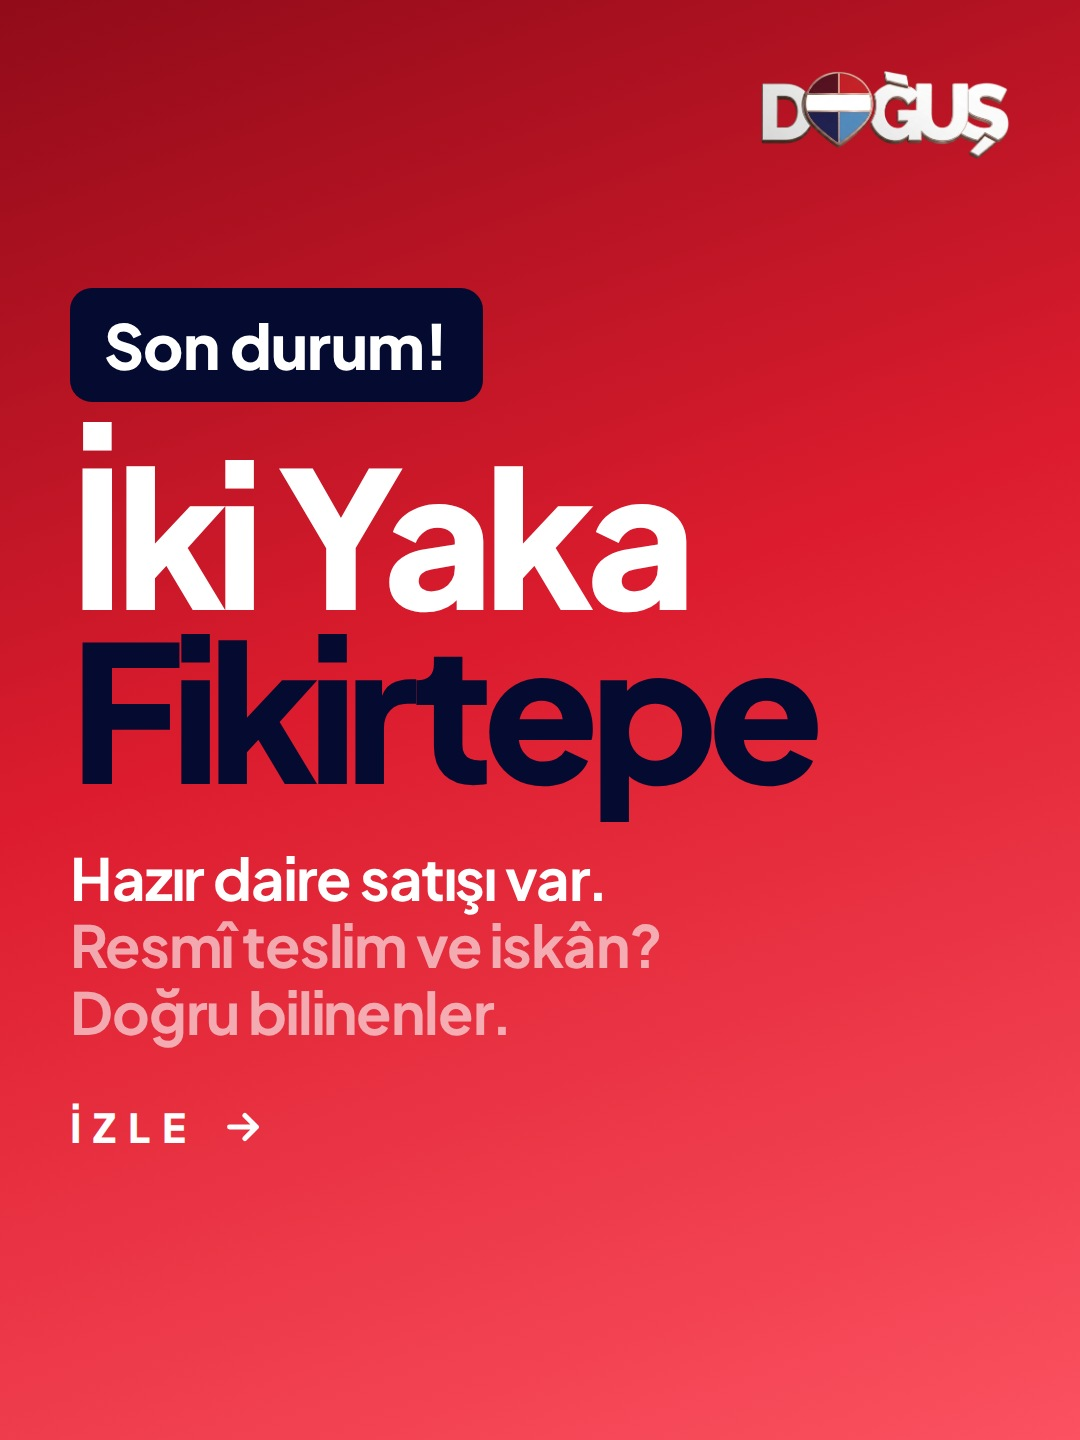
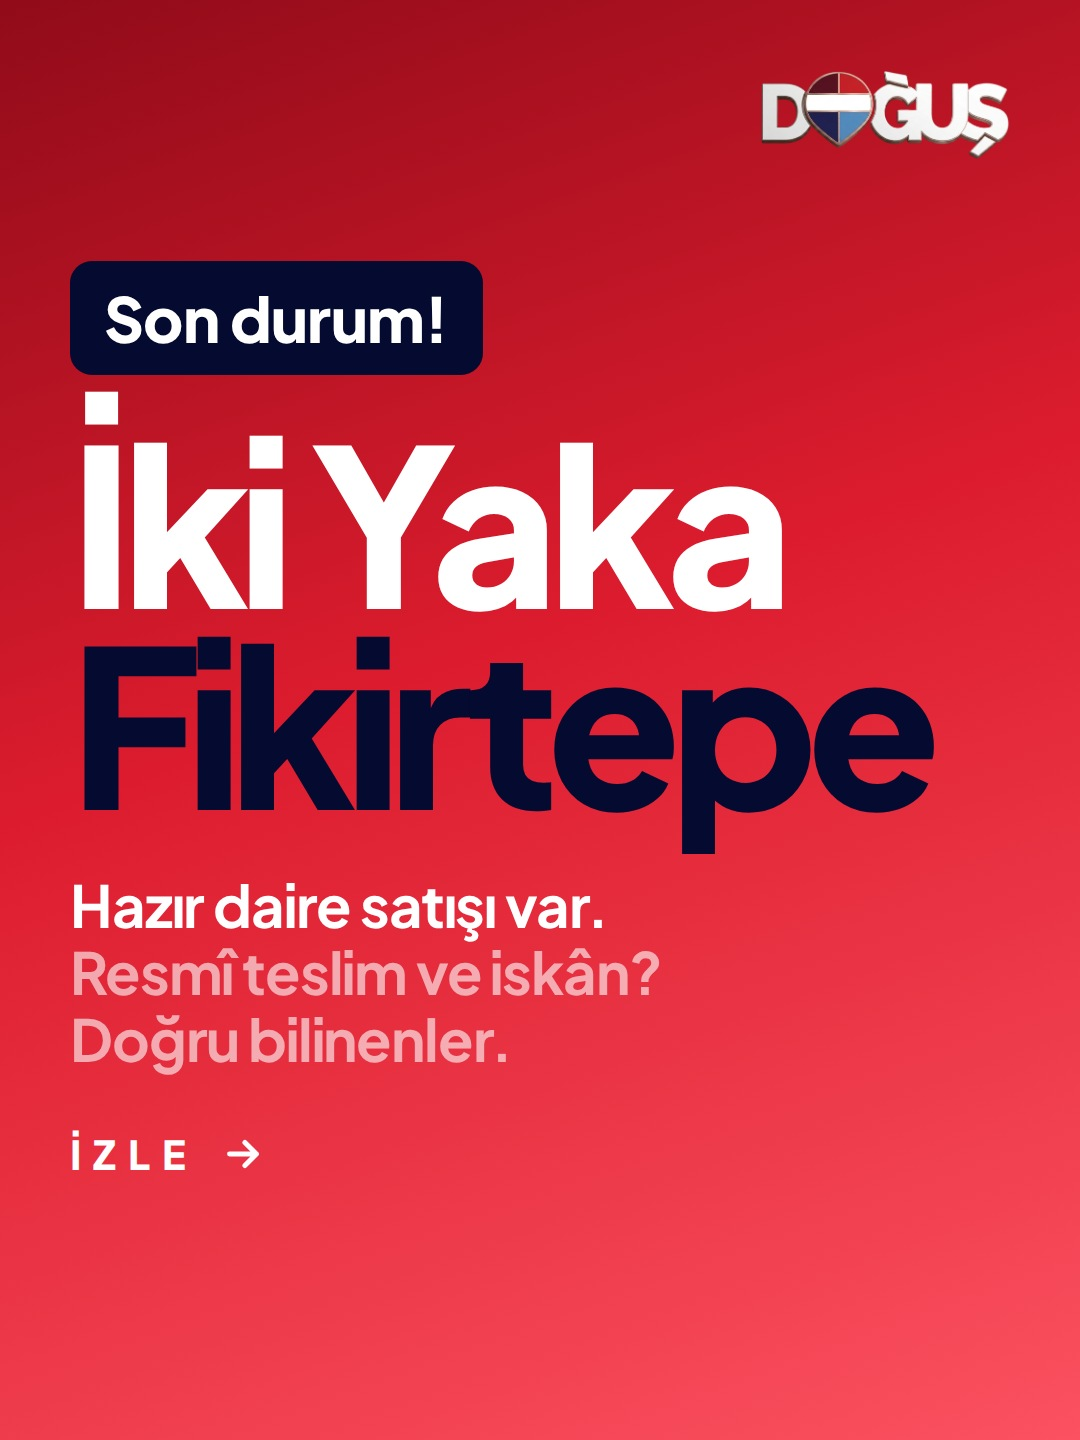
Kapaklar: basliklar uc kapakta da ayni genislige oturtuldu
Claude-Session: https://claude.ai/code/session_01WRjv6iEbjtXjTmoaDMzP1n

Changed region(s): [[0.0611, 0.1562, 0.8861, 0.5938], [0.0611, 0.5938, 0.6111, 0.8125], [0.2139, 0.7812, 0.2444, 0.8125]]

diff --git a/ikiyaka/kapak.html b/ikiyaka/kapak.html
@@ -37,5 +37,10 @@ h1 .hl{color:#FB5160}
   <div class="kay">İZLE <svg width="46" height="46" viewBox="0 0 24 24" fill="none" stroke-width="2.6" stroke-linecap="round" stroke-linejoin="round"><path d="M5 12h14M13 6l6 6-6 6"/></svg></div>
 </div>
 <script>document.body.className=['reel','red'].filter(k=>location.search.includes(k)).join(' ');</script>
+<script>
+// Başlığı her kapakta aynı genişliğe (860px) oturt — kapaklar yan yana eş görünsün
+document.fonts.ready.then(()=>{const h=document.querySelector('h1');h.style.alignSelf='flex-start';h.style.display='inline-block';
+const w=h.getBoundingClientRect().width;h.style.fontSize=(parseFloat(getComputedStyle(h).fontSize)*860/w)+'px';document.body.dataset.fit='1';});
+</script>
 </body>
 </html>

diff --git a/medyan/kapak-buyuk.html b/medyan/kapak-buyuk.html
@@ -37,5 +37,10 @@ h1 .hl{color:#FB5160}
   <div class="kay">İZLE <svg width="46" height="46" viewBox="0 0 24 24" fill="none" stroke-width="2.6" stroke-linecap="round" stroke-linejoin="round"><path d="M5 12h14M13 6l6 6-6 6"/></svg></div>
 </div>
 <script>document.body.className=['reel','red'].filter(k=>location.search.includes(k)).join(' ');</script>
+<script>
+// Başlığı her kapakta aynı genişliğe (860px) oturt — kapaklar yan yana eş görünsün
+document.fonts.ready.then(()=>{const h=document.querySelector('h1');h.style.alignSelf='flex-start';h.style.display='inline-block';
+const w=h.getBoundingClientRect().width;h.style.fontSize=(parseFloat(getComputedStyle(h).fontSize)*860/w)+'px';document.body.dataset.fit='1';});
+</script>
 </body>
 </html>

diff --git a/uplife/kapak.html b/uplife/kapak.html
@@ -37,5 +37,10 @@ h1 .hl{color:#FB5160}
   <div class="kay">İZLE <svg width="46" height="46" viewBox="0 0 24 24" fill="none" stroke-width="2.6" stroke-linecap="round" stroke-linejoin="round"><path d="M5 12h14M13 6l6 6-6 6"/></svg></div>
 </div>
 <script>document.body.className=['reel','red'].filter(k=>location.search.includes(k)).join(' ');</script>
+<script>
+// Başlığı her kapakta aynı genişliğe (860px) oturt — kapaklar yan yana eş görünsün
+document.fonts.ready.then(()=>{const h=document.querySelector('h1');h.style.alignSelf='flex-start';h.style.display='inline-block';
+const w=h.getBoundingClientRect().width;h.style.fontSize=(parseFloat(getComputedStyle(h).fontSize)*860/w)+'px';document.body.dataset.fit='1';});
+</script>
 </body>
 </html>
